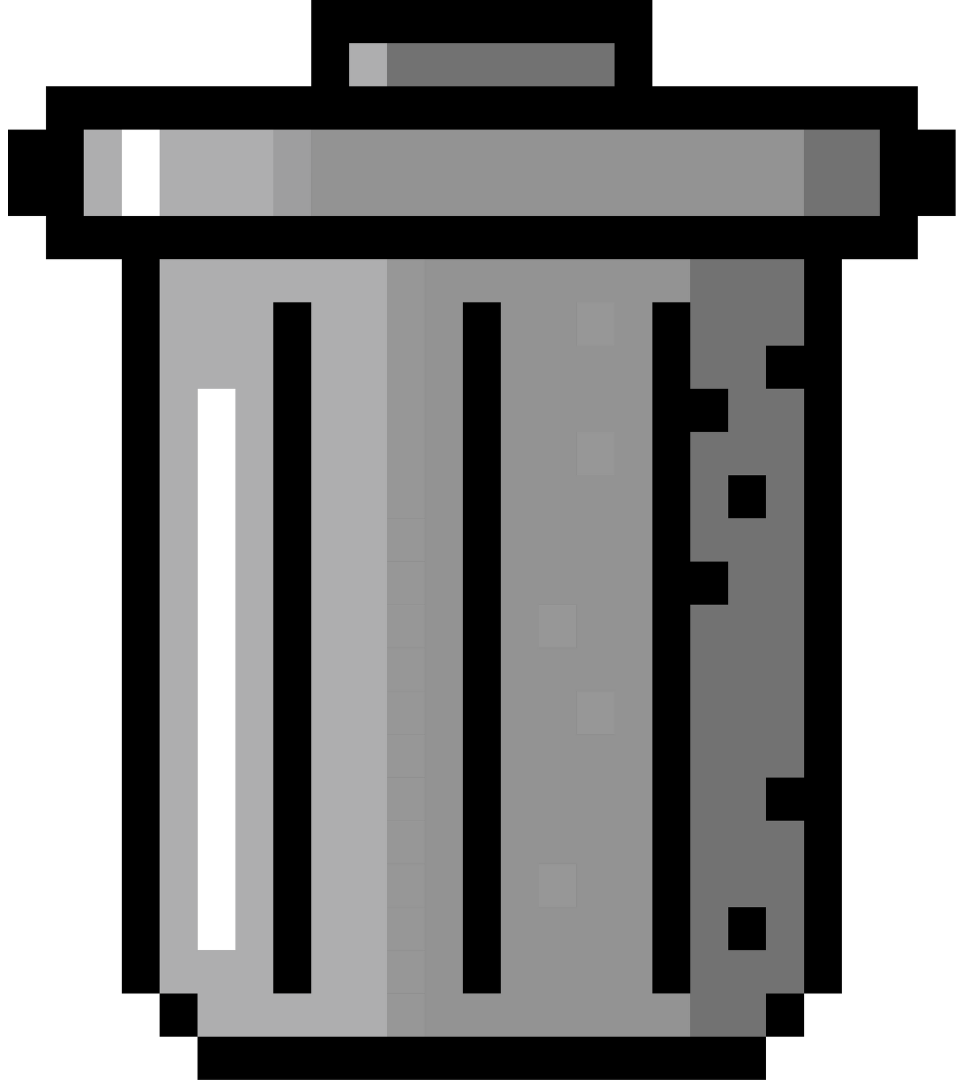
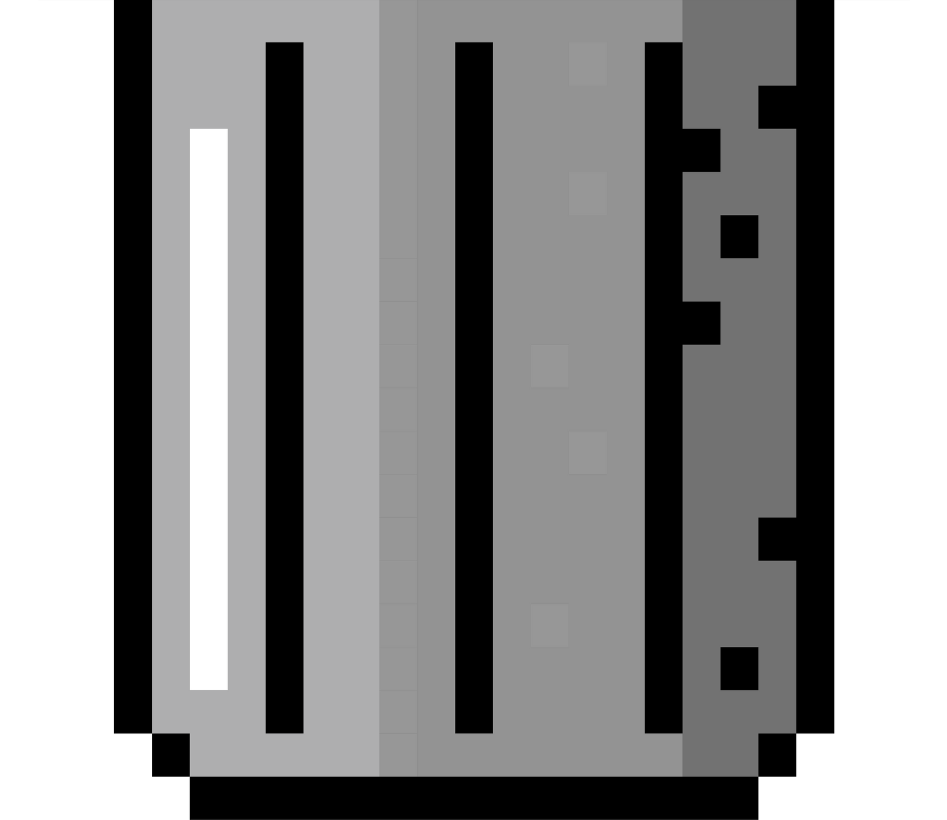
focus state fix

Changed region(s): [[0.0, 0.0, 1.0, 1.0]]

diff --git a/src/app/components/Trashcan.tsx b/src/app/components/Trashcan.tsx
@@ -1,26 +1,57 @@
 'use client'
 
 import arrow from '@/images/Arrow 1.png'
-import bin from '@/images/bin.png' // For page navigation in Next.js
+import bin from '@/images/bin.png'
+import lid from '@/images/lid.png'
 import paper from '@/images/paper.png'
 import Image from 'next/image'
 import { useRouter } from 'next/navigation'
-import React, { useRef } from 'react'
+import React, { useRef, useState } from 'react'
 import Draggable from 'react-draggable'
 
 const Trashcan: React.FC = () => {
-  const router = useRouter() // Next.js router
-  const binRef = useRef<HTMLDivElement>(null) // Reference to the bin
-  const paperRef = React.useRef<HTMLDivElement>(null) // Reference to the paper
-  // const [dragged, setDragged] = useState(false)
+  const router = useRouter()
+  const binRef = useRef<HTMLDivElement>(null)
+  const paperRef = React.useRef<HTMLDivElement>(null)
+  const [lidOffset, setLidOffset] = useState(0)
 
-  const handleStop = () => {
-    // Get bounding boxes for paper and bin
+  const handleDrag = () => {
     const paperRect = paperRef.current?.getBoundingClientRect()
     const binRect = binRef.current?.getBoundingClientRect()
 
     if (paperRect && binRect) {
-      // Check for collision
+      const distance = Math.sqrt(
+        Math.pow(
+          paperRect.left +
+            paperRect.width / 2 -
+            (binRect.left + binRect.width / 2),
+          2,
+        ) +
+          Math.pow(
+            paperRect.top +
+              paperRect.height / 2 -
+              (binRect.top + binRect.height / 2),
+            2,
+          ),
+      )
+
+      const maxDistance = 100
+      const maxOffset = 20
+
+      if (distance < maxDistance) {
+        const newOffset = maxOffset * (1 - distance / maxDistance)
+        setLidOffset(newOffset)
+      } else {
+        setLidOffset(0)
+      }
+    }
+  }
+
+  const handleStop = () => {
+    const paperRect = paperRef.current?.getBoundingClientRect()
+    const binRect = binRef.current?.getBoundingClientRect()
+
+    if (paperRect && binRect) {
       const isColliding =
         paperRect.right > binRect.left &&
         paperRect.left < binRect.right &&
@@ -28,10 +59,10 @@ const Trashcan: React.FC = () => {
         paperRect.top < binRect.bottom
 
       if (isColliding) {
-        // Redirect to /submit if paper is dropped in the bin
         router.push('/submit')
       }
     }
+    setLidOffset(0)
   }
 
   return (
@@ -60,6 +91,7 @@ const Trashcan: React.FC = () => {
           handle=".handle"
           defaultPosition={{ x: 0, y: 0 }}
           scale={1}
+          onDrag={handleDrag}
           onStop={handleStop}
           nodeRef={paperRef}
         >
@@ -78,6 +110,14 @@ const Trashcan: React.FC = () => {
           className="absolute bottom-10 right-0 h-auto flex-row content-end pr-0"
         >
           <h1 className="mb-3 text-[8px] text-white">Into the bin</h1>
+          <div
+            style={{
+              transform: `translateY(-${lidOffset.toString()}px)`,
+              transition: 'transform 0.1s ease-out',
+            }}
+          >
+            <Image className="m-auto h-full w-16 xl:w-20" src={lid} alt="lid" />
+          </div>
           <Image className="m-auto h-full w-16 xl:w-20" src={bin} alt="bin" />
         </div>
       </div>

diff --git a/src/app/submit/page.tsx b/src/app/submit/page.tsx
@@ -23,8 +23,9 @@ export default function SubmitYourStress() {
     isAnonymous: false,
   })
   const [isLoading, setIsLoading] = useState(false)
-  const [isSubmitted, setIsSubmitted] = useState(false)
+  const [isInvalid, setIsInvalid] = useState(false)
   const textareaRef = useRef<HTMLTextAreaElement>(null)
+  const nameInputRef = useRef<HTMLInputElement>(null)
 
   const handleChange = useCallback(
     (e: React.ChangeEvent<HTMLInputElement | HTMLTextAreaElement>) => {
@@ -33,6 +34,7 @@ export default function SubmitYourStress() {
         ...prevState,
         [name]: value,
       }))
+      setIsInvalid(false)
     },
     [],
   )
@@ -54,7 +56,6 @@ export default function SubmitYourStress() {
 
   const handleSubmit = (event: React.FormEvent<HTMLFormElement>) => {
     event.preventDefault()
-    setIsSubmitted(true)
 
     if ((event.target as HTMLFormElement).checkValidity()) {
       setIsLoading(true)
@@ -67,13 +68,31 @@ export default function SubmitYourStress() {
       ])
         .then(() => {
           setIsLoading(false)
-          setIsSubmitted(false)
+          setIsInvalid(false)
+
+          setFormData({
+            stressInput: '',
+            nameInput: '',
+            isAnonymous: false,
+          })
         })
         .catch((error: unknown) => {
           console.error('Error submitting stress:', error)
           setIsLoading(false)
-          setIsSubmitted(false)
+          setIsInvalid(false)
         })
+    } else {
+      setIsInvalid(true)
+
+      if (textareaRef.current) {
+        textareaRef.current.blur()
+      }
+      if (nameInputRef.current) {
+        nameInputRef.current.blur()
+      }
+      if (document.activeElement instanceof HTMLElement) {
+        document.activeElement.blur()
+      }
     }
   }
 
@@ -123,7 +142,7 @@ export default function SubmitYourStress() {
                 name="stressInput"
                 className={cn(
                   'block max-h-[256px] min-h-[128px] w-full resize-none overflow-y-auto text-wrap rounded-2xl bg-light-blue p-5 font-mono text-xs',
-                  isSubmitted &&
+                  isInvalid &&
                     'invalid:animate-shake invalid:border-[1px] invalid:border-oren-3 invalid:placeholder-oren-3',
                   'text-oren-1',
                 )}
@@ -142,7 +161,7 @@ export default function SubmitYourStress() {
                   id="nameInput"
                   className={cn(
                     `mt-2 h-5 w-full rounded-2xl bg-light-blue p-5 font-mono text-xs`,
-                    isSubmitted &&
+                    isInvalid &&
                       'invalid:animate-shake invalid:border-[1px] invalid:border-oren-3 invalid:placeholder-oren-3',
                     'text-oren-1',
                   )}

diff --git a/src/app/page.tsx b/src/app/page.tsx
@@ -18,16 +18,17 @@ const AnimatedBlock: React.FC<AnimatedBlockProps> = ({ children }) => {
         blockRef.current,
         {
           opacity: 0,
-          y: 50, // Start 50 pixels below its normal position
+          y: 50,
         },
         {
           opacity: 1,
           y: 0,
           scrollTrigger: {
             trigger: blockRef.current,
-            start: 'top bottom-=10%', // Starts animation when the top of the element is 10% from the bottom of the viewport
-            end: 'top center', // Ends animation when the top of the element reaches the center of the viewport
-            scrub: true, // Smoothly animates between start and end states as you scroll
+            start: 'top bottom-=10%',
+            end: 'top center',
+            scrub: true,
+            markers: false,
           },
         },
       )
@@ -110,7 +111,7 @@ export default function Home() {
           </p>
         </AnimatedBlock>
         <AnimatedBlock>
-          <p className="m-auto w-[80%] text-center text-xs leading-6 text-oren-3 lg:w-[50%]">
+          <p className="m-auto text-left text-xs leading-6 text-oren-3 lg:w-[70%]">
             &quot;When hard pressed, I cried to the Lord; he brought me into a
             spacious place. The Lord is with me; I will not be afraid...&quot;
             <br />

diff --git a/src/app/components/Parallax.tsx b/src/app/components/Parallax.tsx
@@ -41,7 +41,7 @@ function Parallax() {
           trigger: parallaxRef.current,
           start: 'top top',
           end: '5000 bottom',
-          scrub: true,
+          scrub: 0.5,
           pin: true,
           onUpdate: (self) => {
             setBackground(Math.ceil(self.progress * 100 + 20))
